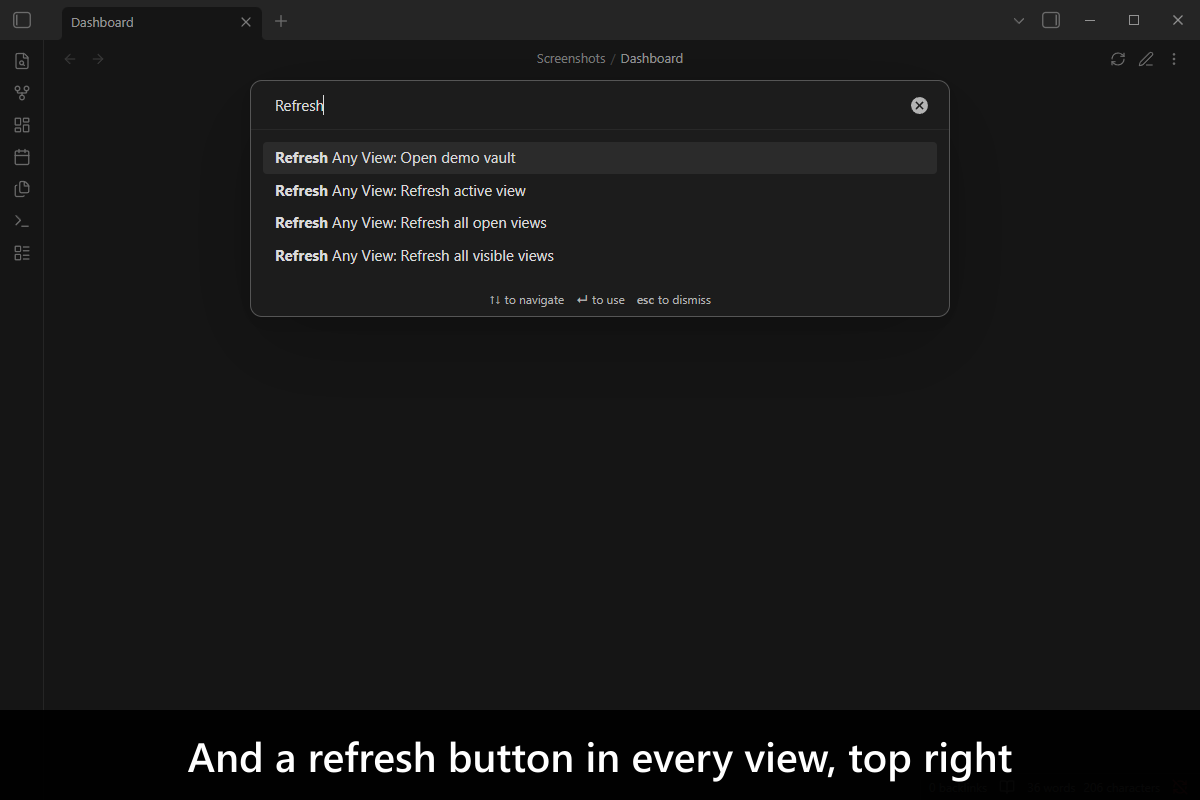
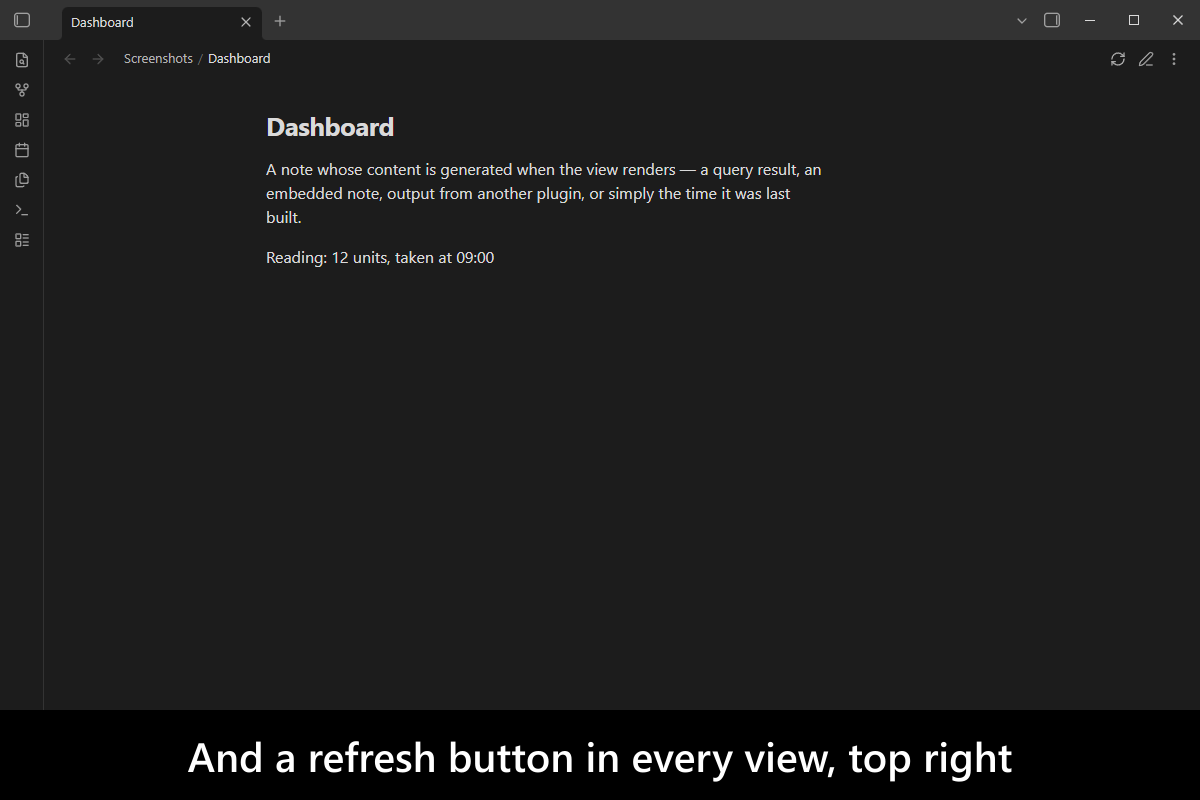
fix(test): close the command palette before shooting the refresh-button frame
The first desktop shot leaves its palette open, so the second frame showed
the palette under a caption about the toolbar button. The old harness
resolved the hover quietly and hid it; obsidian-integration-testing 13
rejects a hover that never lands, which surfaced it. Press Escape and wait
for the modal to close first, and re-shoot the frame.

diff --git a/src/screenshots.desktop-capture.integration.test.ts b/src/screenshots.desktop-capture.integration.test.ts
@@ -150,9 +150,23 @@ function buildSubjectNote(): string {
  */
 async function hoverRefreshButton(): Promise<unknown> {
   return await evalInObsidian({
-    async callback({ app, lib: { hoverElement, waitUntil }, subjectNotePath }) {
+    async callback({ app, lib: { hoverElement, pressKey, waitUntil }, subjectNotePath }) {
       const RENDER_TIMEOUT_IN_MILLISECONDS = 20_000;
       const SETTLE_DELAY_IN_MILLISECONDS = 1500;
+
+      // The previous shot leaves its command palette open, and a modal over the
+      // toolbar takes the hover meant for the button. This frame used to be shot
+      // with the palette still on screen, because the hover resolved quietly.
+      if (document.querySelector('.modal-container')) {
+        // A modal closes on the next frame; this is headroom, not an expectation.
+        const CLOSE_TIMEOUT_IN_MILLISECONDS = 3000;
+        await pressKey({ key: 'Escape' });
+        await waitUntil({
+          message: 'the command palette to close',
+          predicate: () => !document.querySelector('.modal-container'),
+          timeoutInMilliseconds: CLOSE_TIMEOUT_IN_MILLISECONDS
+        });
+      }
 
       const file = app.vault.getFileByPath(subjectNotePath);
       if (!file) {
